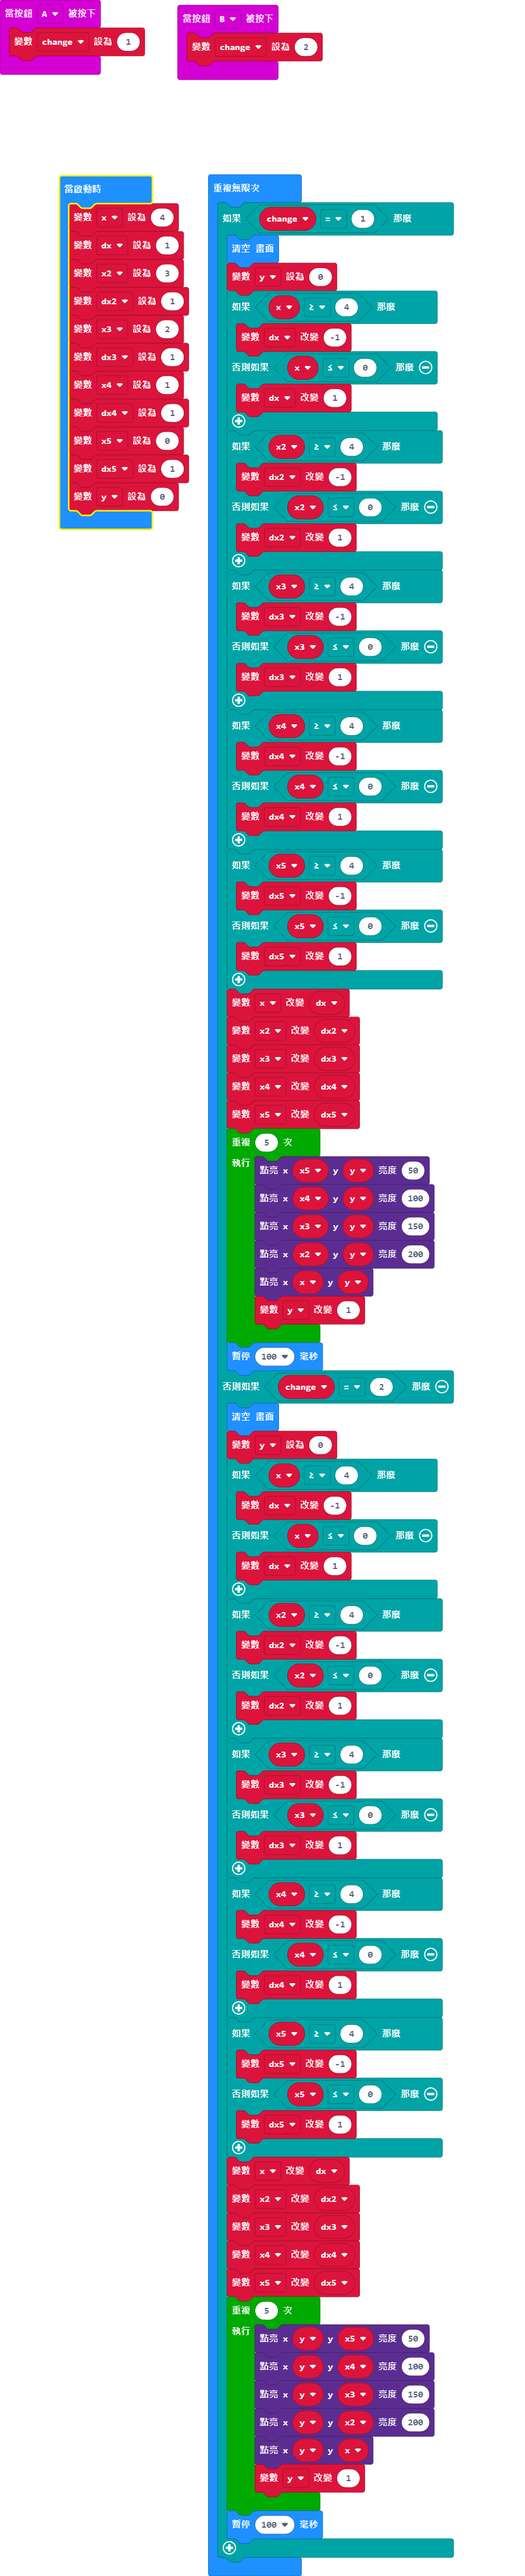
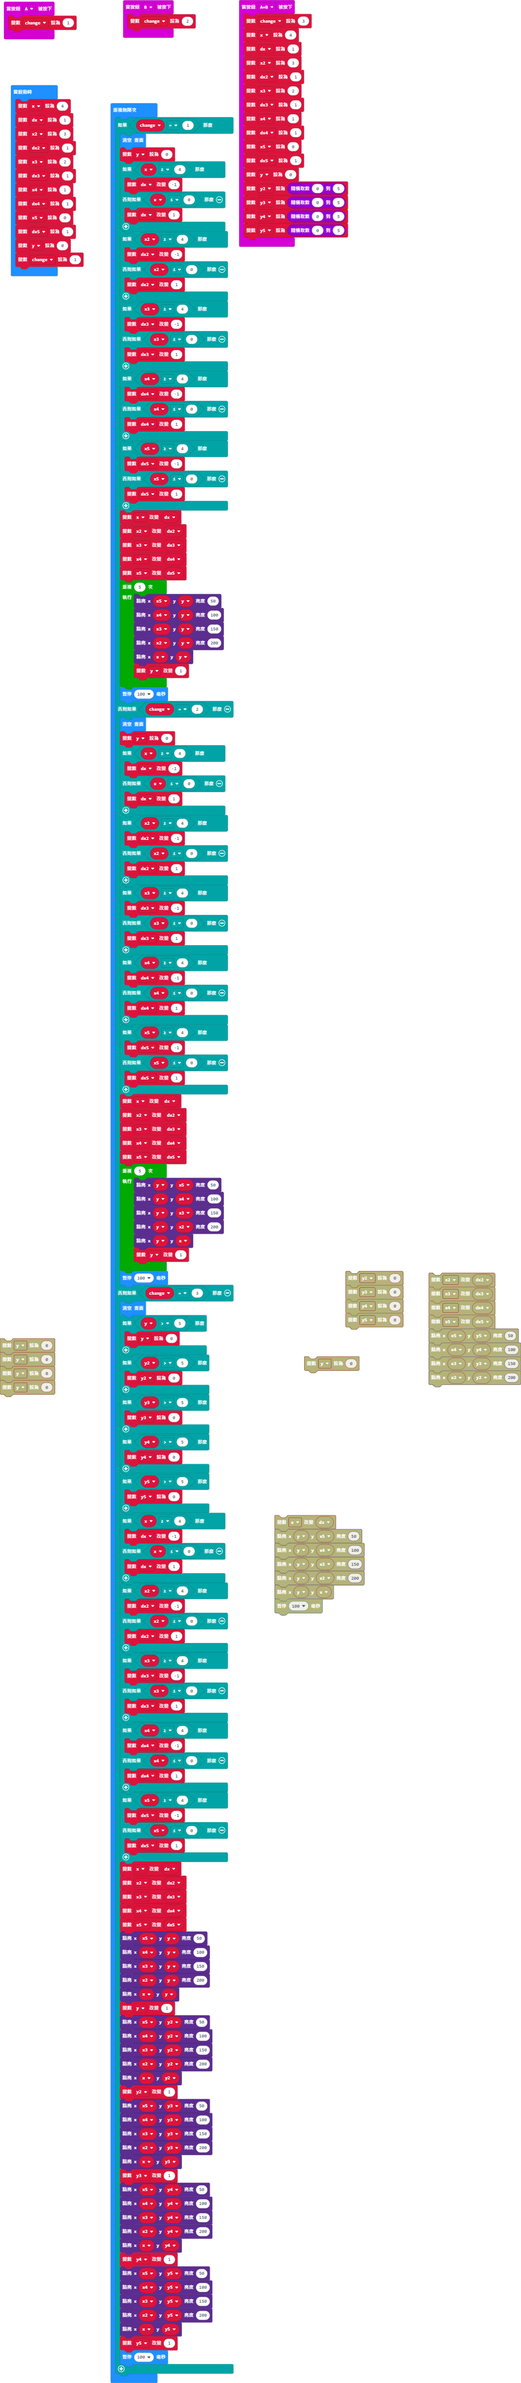
更新 main.blocks, main.ts

diff --git a/main.ts b/main.ts
@@ -1,21 +1,55 @@
 input.onButtonPressed(Button.A, function () {
     change = 1
 })
+input.onButtonPressed(Button.AB, function () {
+    change = 3
+    x = 4
+    dx = 1
+    x2 = 3
+    dx2 = 1
+    x3 = 2
+    dx3 = 1
+    x4 = 1
+    dx4 = 1
+    x5 = 0
+    dx5 = 1
+    y = 0
+    y2 = randint(0, 5)
+    y3 = randint(0, 5)
+    y4 = randint(0, 5)
+    y5 = randint(0, 5)
+})
 input.onButtonPressed(Button.B, function () {
     change = 2
 })
+let y5 = 0
+let y4 = 0
+let y3 = 0
+let y2 = 0
 let change = 0
-let x = 4
-let dx = 1
-let x2 = 3
-let dx2 = 1
-let x3 = 2
-let dx3 = 1
-let x4 = 1
-let dx4 = 1
-let x5 = 0
-let dx5 = 1
 let y = 0
+let dx5 = 0
+let x5 = 0
+let dx4 = 0
+let x4 = 0
+let dx3 = 0
+let x3 = 0
+let dx2 = 0
+let x2 = 0
+let dx = 0
+let x = 0
+x = 4
+dx = 1
+x2 = 3
+dx2 = 1
+x3 = 2
+dx3 = 1
+x4 = 1
+dx4 = 1
+x5 = 0
+dx5 = 1
+y = 0
+change = 1
 basic.forever(function () {
     if (change == 1) {
         basic.clearScreen()
@@ -100,6 +134,84 @@ basic.forever(function () {
             led.plot(y, x)
             y += 1
         }
+        basic.pause(100)
+    } else if (change == 3) {
+        basic.clearScreen()
+        if (y > 5) {
+            y = 0
+        }
+        if (y2 > 5) {
+            y2 = 0
+        }
+        if (y3 > 5) {
+            y3 = 0
+        }
+        if (y4 > 5) {
+            y4 = 0
+        }
+        if (y5 > 5) {
+            y5 = 0
+        }
+        if (x >= 4) {
+            dx += -1
+        } else if (x <= 0) {
+            dx += 1
+        }
+        if (x2 >= 4) {
+            dx2 += -1
+        } else if (x2 <= 0) {
+            dx2 += 1
+        }
+        if (x3 >= 4) {
+            dx3 += -1
+        } else if (x3 <= 0) {
+            dx3 += 1
+        }
+        if (x4 >= 4) {
+            dx4 += -1
+        } else if (x4 <= 0) {
+            dx4 += 1
+        }
+        if (x5 >= 4) {
+            dx5 += -1
+        } else if (x5 <= 0) {
+            dx5 += 1
+        }
+        x += dx
+        x2 += dx2
+        x3 += dx3
+        x4 += dx4
+        x5 += dx5
+        led.plotBrightness(x5, y, 50)
+        led.plotBrightness(x4, y, 100)
+        led.plotBrightness(x3, y, 150)
+        led.plotBrightness(x2, y, 200)
+        led.plot(x, y)
+        y += 1
+        led.plotBrightness(x5, y2, 50)
+        led.plotBrightness(x4, y2, 100)
+        led.plotBrightness(x3, y2, 150)
+        led.plotBrightness(x2, y2, 200)
+        led.plot(x, y2)
+        y2 += 1
+        led.plotBrightness(x5, y3, 50)
+        led.plotBrightness(x4, y3, 100)
+        led.plotBrightness(x3, y3, 150)
+        led.plotBrightness(x2, y3, 200)
+        led.plot(x, y3)
+        y3 += 1
+        led.plotBrightness(x5, y4, 50)
+        led.plotBrightness(x4, y4, 100)
+        led.plotBrightness(x3, y4, 150)
+        led.plotBrightness(x2, y4, 200)
+        led.plot(x, y4)
+        y4 += 1
+        led.plotBrightness(x5, y5, 50)
+        led.plotBrightness(x4, y5, 100)
+        led.plotBrightness(x3, y5, 150)
+        led.plotBrightness(x2, y5, 200)
+        led.plot(x, y5)
+        y5 += 1
         basic.pause(100)
     }
 })
